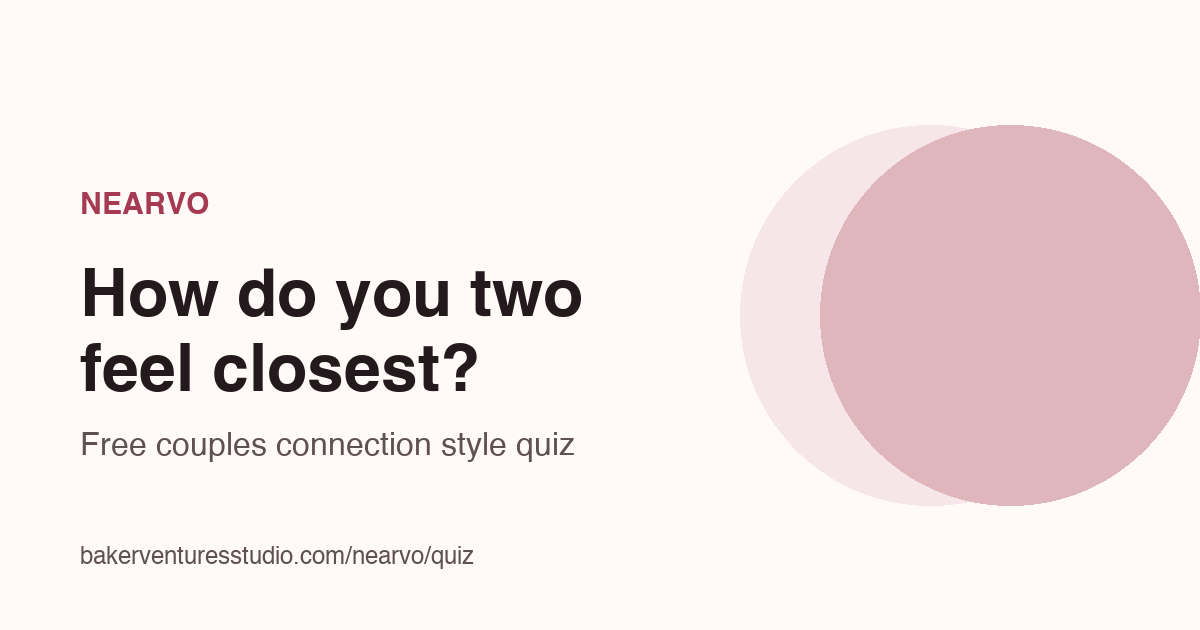
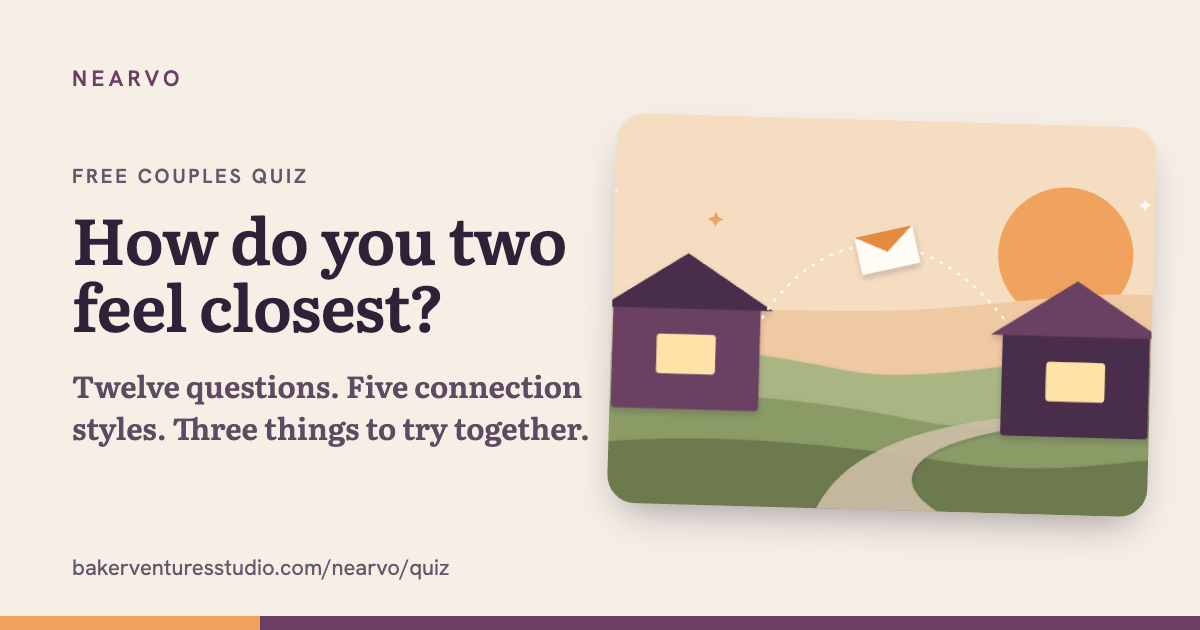
Quiz: five static result pages with per-result og images

diff --git a/nearvo/quiz/result/steady-noticer/index.html b/nearvo/quiz/result/steady-noticer/index.html
@@ -1,0 +1,61 @@
+<!DOCTYPE html>
+<html lang="en">
+<head>
+<meta charset="utf-8">
+<meta name="viewport" content="width=device-width, initial-scale=1">
+<title>The Steady Noticer | Couples Connection Style Quiz | Nearvo</title>
+<meta name="description" content="You feel closest when someone has paid attention. You tend to feel loved through the small, specific things: a remembered detail, a text that shows they were thinking of you, an unspoken “I can tell you’re tired.” You probably notice a lot about your partner too, often more than you say out loud.. Take the free couples connection style quiz.">
+<link rel="canonical" href="https://bakerventuresstudio.com/nearvo/quiz/">
+<meta name="robots" content="noindex,follow">
+<meta name="color-scheme" content="light dark">
+<meta property="og:type" content="website">
+<meta property="og:site_name" content="Nearvo">
+<meta property="og:title" content="The Steady Noticer: my connection style | Nearvo">
+<meta property="og:description" content="You feel closest when someone has paid attention. Take the free quiz to find yours.">
+<meta property="og:url" content="https://bakerventuresstudio.com/nearvo/quiz/result/steady-noticer/">
+<meta property="og:image" content="https://bakerventuresstudio.com/nearvo/quiz/og/steady-noticer.png">
+<meta property="og:image:width" content="1200">
+<meta property="og:image:height" content="630">
+<meta property="og:image:alt" content="The Steady Noticer: You feel closest when someone has paid attention. Nearvo connection style quiz.">
+<meta name="twitter:card" content="summary_large_image">
+<meta name="twitter:image" content="https://bakerventuresstudio.com/nearvo/quiz/og/steady-noticer.png">
+<link rel="stylesheet" href="../../quiz.css">
+</head>
+<body>
+<main class="wrap">
+<p class="nav"><a href="/nearvo/quiz/">&larr; The quiz</a><span class="mark" aria-hidden="true">Nearvo</span></p>
+<article class="sheet enter">
+<img class="scene" src="../../art/noticer.svg" alt="Paper illustration for The Steady Noticer" width="800" height="450">
+<div class="pad">
+<p class="kicker">A connection style</p>
+<h1 class="nameplate">The Steady Noticer</h1>
+<p class="essence">You feel closest when someone has paid attention.</p>
+<p>You tend to feel loved through the small, specific things: a remembered detail, a text that shows they were thinking of you, an unspoken “I can tell you’re tired.” You probably notice a lot about your partner too, often more than you say out loud.</p>
+<div class="note"><p>Worth knowing: if you wait to be noticed, your partner may not realize what you are hoping for. Saying it once, kindly, can help.</p></div>
+<h2 style="margin-top:2rem">Three things to try this week, together</h2>
+<ol class="try">
+<li>Each day this week, tell your partner one small thing you noticed about them. Keep it specific.</li>
+<li>Pick one detail from a past conversation and bring it back with something that nods to it.</li>
+<li>Take turns finishing the sentence “A small thing you do that I love is…”.</li>
+</ol>
+<h2 style="margin-top:2rem">A question to ask your partner tonight</h2>
+<blockquote class="quote"><p>What is something small I did recently that you noticed and liked?</p></blockquote>
+<div class="actions"><a class="btn big" href="/nearvo/quiz/">Find your own style</a></div>
+<p class="fun">For fun and reflection. This is not therapy, counseling or a diagnosis. The quiz runs in your browser: no account, no email, no cookies, nothing stored or sent.</p>
+</div>
+</article>
+<h2 style="margin:2rem 0 .8rem">The other four styles</h2>
+<ul class="styles">
+<li><a href="../open-talker/"><img src="../../art/talker.svg" alt="" width="160" height="90" loading="lazy"><span><b>The Open Talker</b>You feel closest when things are said out loud.</span></a></li>
+<li><a href="../side-by-side-doer/"><img src="../../art/doer.svg" alt="" width="160" height="90" loading="lazy"><span><b>The Side-by-Side Doer</b>You feel closest when you are doing something together.</span></a></li>
+<li><a href="../quiet-recharger/"><img src="../../art/quiet.svg" alt="" width="160" height="90" loading="lazy"><span><b>The Quiet Recharger</b>You feel closest when there is calm and room to breathe.</span></a></li>
+<li><a href="../warm-sparker/"><img src="../../art/sparker.svg" alt="" width="160" height="90" loading="lazy"><span><b>The Warm Sparker</b>You feel closest through warmth, play and touch.</span></a></li>
+</ul>
+<section class="cta" aria-label="Nearvo app">
+<p><strong>Nearvo is coming soon to iPhone.</strong></p>
+<p>Nearvo is a couples app built around one shared question a day. <a href="/nearvo/">Read how it works</a>.</p>
+</section>
+<footer>&copy; Baker Ventures LLC &middot; <a href="/nearvo/privacy/">Privacy Policy</a> &middot; <a href="/nearvo/terms/">Terms of Use</a> &middot; <a href="/nearvo/support/">Support</a> &middot; <a href="/">Baker Ventures Studio</a></footer>
+</main>
+</body>
+</html>

diff --git a/nearvo/quiz/result/side-by-side-doer/index.html b/nearvo/quiz/result/side-by-side-doer/index.html
@@ -1,0 +1,61 @@
+<!DOCTYPE html>
+<html lang="en">
+<head>
+<meta charset="utf-8">
+<meta name="viewport" content="width=device-width, initial-scale=1">
+<title>The Side-by-Side Doer | Couples Connection Style Quiz | Nearvo</title>
+<meta name="description" content="You feel closest when you are doing something together. For you, closeness shows up in action: cooking together, tackling a project, a walk, or a partner who quietly takes something off your plate. Take the free couples connection style quiz.">
+<link rel="canonical" href="https://bakerventuresstudio.com/nearvo/quiz/">
+<meta name="robots" content="noindex,follow">
+<meta name="color-scheme" content="light dark">
+<meta property="og:type" content="website">
+<meta property="og:site_name" content="Nearvo">
+<meta property="og:title" content="The Side-by-Side Doer: my connection style | Nearvo">
+<meta property="og:description" content="You feel closest when you are doing something together. Take the free quiz to find yours.">
+<meta property="og:url" content="https://bakerventuresstudio.com/nearvo/quiz/result/side-by-side-doer/">
+<meta property="og:image" content="https://bakerventuresstudio.com/nearvo/quiz/og/side-by-side-doer.png">
+<meta property="og:image:width" content="1200">
+<meta property="og:image:height" content="630">
+<meta property="og:image:alt" content="The Side-by-Side Doer: You feel closest when you are doing something together. Nearvo connection style quiz.">
+<meta name="twitter:card" content="summary_large_image">
+<meta name="twitter:image" content="https://bakerventuresstudio.com/nearvo/quiz/og/side-by-side-doer.png">
+<link rel="stylesheet" href="../../quiz.css">
+</head>
+<body>
+<main class="wrap">
+<p class="nav"><a href="/nearvo/quiz/">&larr; The quiz</a><span class="mark" aria-hidden="true">Nearvo</span></p>
+<article class="sheet enter">
+<img class="scene" src="../../art/doer.svg" alt="Paper illustration for The Side-by-Side Doer" width="800" height="450">
+<div class="pad">
+<p class="kicker">A connection style</p>
+<h1 class="nameplate">The Side-by-Side Doer</h1>
+<p class="essence">You feel closest when you are doing something together.</p>
+<p>For you, closeness shows up in action: cooking together, tackling a project, a walk, or a partner who quietly takes something off your plate. Being useful to each other, or simply busy side by side, feels like love.</p>
+<div class="note"><p>Worth knowing: help is not the only way your partner may be trying to show care. Look for what sits behind the gesture.</p></div>
+<h2 style="margin-top:2rem">Three things to try this week, together</h2>
+<ol class="try">
+<li>Choose one small project this week, like a recipe, a shelf or a playlist, and do it together from start to finish.</li>
+<li>Take over one of your partner’s least favorite chores this week without being asked.</li>
+<li>Plan one outing and split the planning: one picks where, the other picks what to bring.</li>
+</ol>
+<h2 style="margin-top:2rem">A question to ask your partner tonight</h2>
+<blockquote class="quote"><p>What is one thing I could take off your plate this week that would make a real difference?</p></blockquote>
+<div class="actions"><a class="btn big" href="/nearvo/quiz/">Find your own style</a></div>
+<p class="fun">For fun and reflection. This is not therapy, counseling or a diagnosis. The quiz runs in your browser: no account, no email, no cookies, nothing stored or sent.</p>
+</div>
+</article>
+<h2 style="margin:2rem 0 .8rem">The other four styles</h2>
+<ul class="styles">
+<li><a href="../steady-noticer/"><img src="../../art/noticer.svg" alt="" width="160" height="90" loading="lazy"><span><b>The Steady Noticer</b>You feel closest when someone has paid attention.</span></a></li>
+<li><a href="../open-talker/"><img src="../../art/talker.svg" alt="" width="160" height="90" loading="lazy"><span><b>The Open Talker</b>You feel closest when things are said out loud.</span></a></li>
+<li><a href="../quiet-recharger/"><img src="../../art/quiet.svg" alt="" width="160" height="90" loading="lazy"><span><b>The Quiet Recharger</b>You feel closest when there is calm and room to breathe.</span></a></li>
+<li><a href="../warm-sparker/"><img src="../../art/sparker.svg" alt="" width="160" height="90" loading="lazy"><span><b>The Warm Sparker</b>You feel closest through warmth, play and touch.</span></a></li>
+</ul>
+<section class="cta" aria-label="Nearvo app">
+<p><strong>Nearvo is coming soon to iPhone.</strong></p>
+<p>Nearvo is a couples app built around one shared question a day. <a href="/nearvo/">Read how it works</a>.</p>
+</section>
+<footer>&copy; Baker Ventures LLC &middot; <a href="/nearvo/privacy/">Privacy Policy</a> &middot; <a href="/nearvo/terms/">Terms of Use</a> &middot; <a href="/nearvo/support/">Support</a> &middot; <a href="/">Baker Ventures Studio</a></footer>
+</main>
+</body>
+</html>

diff --git a/nearvo/quiz/result/quiet-recharger/index.html b/nearvo/quiz/result/quiet-recharger/index.html
@@ -1,0 +1,61 @@
+<!DOCTYPE html>
+<html lang="en">
+<head>
+<meta charset="utf-8">
+<meta name="viewport" content="width=device-width, initial-scale=1">
+<title>The Quiet Recharger | Couples Connection Style Quiz | Nearvo</title>
+<meta name="description" content="You feel closest when there is calm and room to breathe. You value ease: unhurried time, comfortable silence, and a partner who understands that needing space is not rejection. Take the free couples connection style quiz.">
+<link rel="canonical" href="https://bakerventuresstudio.com/nearvo/quiz/">
+<meta name="robots" content="noindex,follow">
+<meta name="color-scheme" content="light dark">
+<meta property="og:type" content="website">
+<meta property="og:site_name" content="Nearvo">
+<meta property="og:title" content="The Quiet Recharger: my connection style | Nearvo">
+<meta property="og:description" content="You feel closest when there is calm and room to breathe. Take the free quiz to find yours.">
+<meta property="og:url" content="https://bakerventuresstudio.com/nearvo/quiz/result/quiet-recharger/">
+<meta property="og:image" content="https://bakerventuresstudio.com/nearvo/quiz/og/quiet-recharger.png">
+<meta property="og:image:width" content="1200">
+<meta property="og:image:height" content="630">
+<meta property="og:image:alt" content="The Quiet Recharger: You feel closest when there is calm and room to breathe. Nearvo connection style quiz.">
+<meta name="twitter:card" content="summary_large_image">
+<meta name="twitter:image" content="https://bakerventuresstudio.com/nearvo/quiz/og/quiet-recharger.png">
+<link rel="stylesheet" href="../../quiz.css">
+</head>
+<body>
+<main class="wrap">
+<p class="nav"><a href="/nearvo/quiz/">&larr; The quiz</a><span class="mark" aria-hidden="true">Nearvo</span></p>
+<article class="sheet enter">
+<img class="scene" src="../../art/quiet.svg" alt="Paper illustration for The Quiet Recharger" width="800" height="450">
+<div class="pad">
+<p class="kicker">A connection style</p>
+<h1 class="nameplate">The Quiet Recharger</h1>
+<p class="essence">You feel closest when there is calm and room to breathe.</p>
+<p>You value ease: unhurried time, comfortable silence, and a partner who understands that needing space is not rejection. You often come back warmer after some quiet, and you feel safe when you are not pushed.</p>
+<div class="note"><p>Worth knowing: your partner may read your space as distance. A short “I need an hour, then I would love to be with you” goes a long way.</p></div>
+<h2 style="margin-top:2rem">Three things to try this week, together</h2>
+<ol class="try">
+<li>Agree on a simple phrase for “I need a little space, and I will come find you in an hour”, then use it once this week.</li>
+<li>Spend twenty minutes in the same room, each doing your own quiet thing, with no screens between you.</li>
+<li>Plan a slow, unscheduled morning together with nothing on the list.</li>
+</ol>
+<h2 style="margin-top:2rem">A question to ask your partner tonight</h2>
+<blockquote class="quote"><p>What kind of quiet time helps you feel close to me rather than far from me?</p></blockquote>
+<div class="actions"><a class="btn big" href="/nearvo/quiz/">Find your own style</a></div>
+<p class="fun">For fun and reflection. This is not therapy, counseling or a diagnosis. The quiz runs in your browser: no account, no email, no cookies, nothing stored or sent.</p>
+</div>
+</article>
+<h2 style="margin:2rem 0 .8rem">The other four styles</h2>
+<ul class="styles">
+<li><a href="../steady-noticer/"><img src="../../art/noticer.svg" alt="" width="160" height="90" loading="lazy"><span><b>The Steady Noticer</b>You feel closest when someone has paid attention.</span></a></li>
+<li><a href="../open-talker/"><img src="../../art/talker.svg" alt="" width="160" height="90" loading="lazy"><span><b>The Open Talker</b>You feel closest when things are said out loud.</span></a></li>
+<li><a href="../side-by-side-doer/"><img src="../../art/doer.svg" alt="" width="160" height="90" loading="lazy"><span><b>The Side-by-Side Doer</b>You feel closest when you are doing something together.</span></a></li>
+<li><a href="../warm-sparker/"><img src="../../art/sparker.svg" alt="" width="160" height="90" loading="lazy"><span><b>The Warm Sparker</b>You feel closest through warmth, play and touch.</span></a></li>
+</ul>
+<section class="cta" aria-label="Nearvo app">
+<p><strong>Nearvo is coming soon to iPhone.</strong></p>
+<p>Nearvo is a couples app built around one shared question a day. <a href="/nearvo/">Read how it works</a>.</p>
+</section>
+<footer>&copy; Baker Ventures LLC &middot; <a href="/nearvo/privacy/">Privacy Policy</a> &middot; <a href="/nearvo/terms/">Terms of Use</a> &middot; <a href="/nearvo/support/">Support</a> &middot; <a href="/">Baker Ventures Studio</a></footer>
+</main>
+</body>
+</html>

diff --git a/nearvo/quiz/result/open-talker/index.html b/nearvo/quiz/result/open-talker/index.html
@@ -1,0 +1,61 @@
+<!DOCTYPE html>
+<html lang="en">
+<head>
+<meta charset="utf-8">
+<meta name="viewport" content="width=device-width, initial-scale=1">
+<title>The Open Talker | Couples Connection Style Quiz | Nearvo</title>
+<meta name="description" content="You feel closest when things are said out loud. Words are how you connect. Take the free couples connection style quiz.">
+<link rel="canonical" href="https://bakerventuresstudio.com/nearvo/quiz/">
+<meta name="robots" content="noindex,follow">
+<meta name="color-scheme" content="light dark">
+<meta property="og:type" content="website">
+<meta property="og:site_name" content="Nearvo">
+<meta property="og:title" content="The Open Talker: my connection style | Nearvo">
+<meta property="og:description" content="You feel closest when things are said out loud. Take the free quiz to find yours.">
+<meta property="og:url" content="https://bakerventuresstudio.com/nearvo/quiz/result/open-talker/">
+<meta property="og:image" content="https://bakerventuresstudio.com/nearvo/quiz/og/open-talker.png">
+<meta property="og:image:width" content="1200">
+<meta property="og:image:height" content="630">
+<meta property="og:image:alt" content="The Open Talker: You feel closest when things are said out loud. Nearvo connection style quiz.">
+<meta name="twitter:card" content="summary_large_image">
+<meta name="twitter:image" content="https://bakerventuresstudio.com/nearvo/quiz/og/open-talker.png">
+<link rel="stylesheet" href="../../quiz.css">
+</head>
+<body>
+<main class="wrap">
+<p class="nav"><a href="/nearvo/quiz/">&larr; The quiz</a><span class="mark" aria-hidden="true">Nearvo</span></p>
+<article class="sheet enter">
+<img class="scene" src="../../art/talker.svg" alt="Paper illustration for The Open Talker" width="800" height="450">
+<div class="pad">
+<p class="kicker">A connection style</p>
+<h1 class="nameplate">The Open Talker</h1>
+<p class="essence">You feel closest when things are said out loud.</p>
+<p>Words are how you connect. Saying how the day went, hearing “I appreciate you”, and talking things through to the end all leave you feeling near to your partner. Silence can feel like distance, even when nothing is wrong.</p>
+<div class="note"><p>Worth knowing: a partner who connects in other ways may need a little time before they find their words. Pauses are not always distance.</p></div>
+<h2 style="margin-top:2rem">Three things to try this week, together</h2>
+<ol class="try">
+<li>Set aside ten phone-free minutes after dinner and take turns telling each other about your day without interrupting.</li>
+<li>Write your partner a short note, a few honest sentences, and leave it where they will find it.</li>
+<li>Say one thing you appreciate about them every evening, out loud.</li>
+</ol>
+<h2 style="margin-top:2rem">A question to ask your partner tonight</h2>
+<blockquote class="quote"><p>Is there something you have wanted to tell me lately but have not found the moment for?</p></blockquote>
+<div class="actions"><a class="btn big" href="/nearvo/quiz/">Find your own style</a></div>
+<p class="fun">For fun and reflection. This is not therapy, counseling or a diagnosis. The quiz runs in your browser: no account, no email, no cookies, nothing stored or sent.</p>
+</div>
+</article>
+<h2 style="margin:2rem 0 .8rem">The other four styles</h2>
+<ul class="styles">
+<li><a href="../steady-noticer/"><img src="../../art/noticer.svg" alt="" width="160" height="90" loading="lazy"><span><b>The Steady Noticer</b>You feel closest when someone has paid attention.</span></a></li>
+<li><a href="../side-by-side-doer/"><img src="../../art/doer.svg" alt="" width="160" height="90" loading="lazy"><span><b>The Side-by-Side Doer</b>You feel closest when you are doing something together.</span></a></li>
+<li><a href="../quiet-recharger/"><img src="../../art/quiet.svg" alt="" width="160" height="90" loading="lazy"><span><b>The Quiet Recharger</b>You feel closest when there is calm and room to breathe.</span></a></li>
+<li><a href="../warm-sparker/"><img src="../../art/sparker.svg" alt="" width="160" height="90" loading="lazy"><span><b>The Warm Sparker</b>You feel closest through warmth, play and touch.</span></a></li>
+</ul>
+<section class="cta" aria-label="Nearvo app">
+<p><strong>Nearvo is coming soon to iPhone.</strong></p>
+<p>Nearvo is a couples app built around one shared question a day. <a href="/nearvo/">Read how it works</a>.</p>
+</section>
+<footer>&copy; Baker Ventures LLC &middot; <a href="/nearvo/privacy/">Privacy Policy</a> &middot; <a href="/nearvo/terms/">Terms of Use</a> &middot; <a href="/nearvo/support/">Support</a> &middot; <a href="/">Baker Ventures Studio</a></footer>
+</main>
+</body>
+</html>

diff --git a/nearvo/quiz/result/warm-sparker/index.html b/nearvo/quiz/result/warm-sparker/index.html
@@ -1,0 +1,61 @@
+<!DOCTYPE html>
+<html lang="en">
+<head>
+<meta charset="utf-8">
+<meta name="viewport" content="width=device-width, initial-scale=1">
+<title>The Warm Sparker | Couples Connection Style Quiz | Nearvo</title>
+<meta name="description" content="You feel closest through warmth, play and touch. Affection is your language: hugs, hand-holding, laughing at something silly, a playful nudge in the kitchen. Take the free couples connection style quiz.">
+<link rel="canonical" href="https://bakerventuresstudio.com/nearvo/quiz/">
+<meta name="robots" content="noindex,follow">
+<meta name="color-scheme" content="light dark">
+<meta property="og:type" content="website">
+<meta property="og:site_name" content="Nearvo">
+<meta property="og:title" content="The Warm Sparker: my connection style | Nearvo">
+<meta property="og:description" content="You feel closest through warmth, play and touch. Take the free quiz to find yours.">
+<meta property="og:url" content="https://bakerventuresstudio.com/nearvo/quiz/result/warm-sparker/">
+<meta property="og:image" content="https://bakerventuresstudio.com/nearvo/quiz/og/warm-sparker.png">
+<meta property="og:image:width" content="1200">
+<meta property="og:image:height" content="630">
+<meta property="og:image:alt" content="The Warm Sparker: You feel closest through warmth, play and touch. Nearvo connection style quiz.">
+<meta name="twitter:card" content="summary_large_image">
+<meta name="twitter:image" content="https://bakerventuresstudio.com/nearvo/quiz/og/warm-sparker.png">
+<link rel="stylesheet" href="../../quiz.css">
+</head>
+<body>
+<main class="wrap">
+<p class="nav"><a href="/nearvo/quiz/">&larr; The quiz</a><span class="mark" aria-hidden="true">Nearvo</span></p>
+<article class="sheet enter">
+<img class="scene" src="../../art/sparker.svg" alt="Paper illustration for The Warm Sparker" width="800" height="450">
+<div class="pad">
+<p class="kicker">A connection style</p>
+<h1 class="nameplate">The Warm Sparker</h1>
+<p class="essence">You feel closest through warmth, play and touch.</p>
+<p>Affection is your language: hugs, hand-holding, laughing at something silly, a playful nudge in the kitchen. Lightness and physical closeness help you feel connected and help you reset after a rough patch.</p>
+<div class="note"><p>Worth knowing: not everyone feels safe to be playful when they are stressed. Match your partner’s mood, then lift it gently.</p></div>
+<h2 style="margin-top:2rem">Three things to try this week, together</h2>
+<ol class="try">
+<li>Start or end each day this week with a proper ten-second hug.</li>
+<li>Invent one tiny silly ritual together, like a handshake, a nickname or a kitchen dance.</li>
+<li>Hold hands on a walk, and swap who sets the pace.</li>
+</ol>
+<h2 style="margin-top:2rem">A question to ask your partner tonight</h2>
+<blockquote class="quote"><p>What kind of touch or playfulness feels best to you when we are both relaxed?</p></blockquote>
+<div class="actions"><a class="btn big" href="/nearvo/quiz/">Find your own style</a></div>
+<p class="fun">For fun and reflection. This is not therapy, counseling or a diagnosis. The quiz runs in your browser: no account, no email, no cookies, nothing stored or sent.</p>
+</div>
+</article>
+<h2 style="margin:2rem 0 .8rem">The other four styles</h2>
+<ul class="styles">
+<li><a href="../steady-noticer/"><img src="../../art/noticer.svg" alt="" width="160" height="90" loading="lazy"><span><b>The Steady Noticer</b>You feel closest when someone has paid attention.</span></a></li>
+<li><a href="../open-talker/"><img src="../../art/talker.svg" alt="" width="160" height="90" loading="lazy"><span><b>The Open Talker</b>You feel closest when things are said out loud.</span></a></li>
+<li><a href="../side-by-side-doer/"><img src="../../art/doer.svg" alt="" width="160" height="90" loading="lazy"><span><b>The Side-by-Side Doer</b>You feel closest when you are doing something together.</span></a></li>
+<li><a href="../quiet-recharger/"><img src="../../art/quiet.svg" alt="" width="160" height="90" loading="lazy"><span><b>The Quiet Recharger</b>You feel closest when there is calm and room to breathe.</span></a></li>
+</ul>
+<section class="cta" aria-label="Nearvo app">
+<p><strong>Nearvo is coming soon to iPhone.</strong></p>
+<p>Nearvo is a couples app built around one shared question a day. <a href="/nearvo/">Read how it works</a>.</p>
+</section>
+<footer>&copy; Baker Ventures LLC &middot; <a href="/nearvo/privacy/">Privacy Policy</a> &middot; <a href="/nearvo/terms/">Terms of Use</a> &middot; <a href="/nearvo/support/">Support</a> &middot; <a href="/">Baker Ventures Studio</a></footer>
+</main>
+</body>
+</html>
